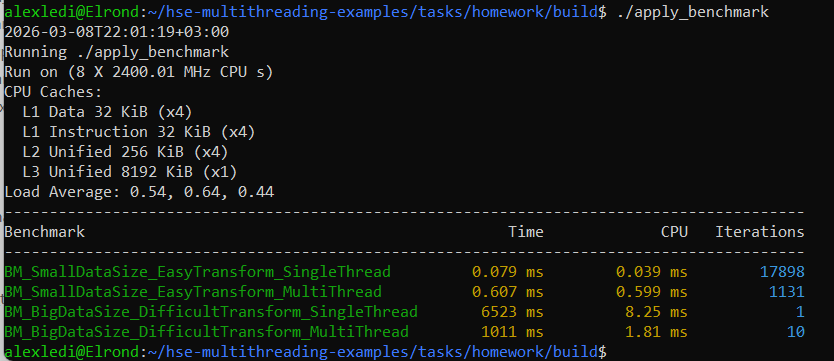
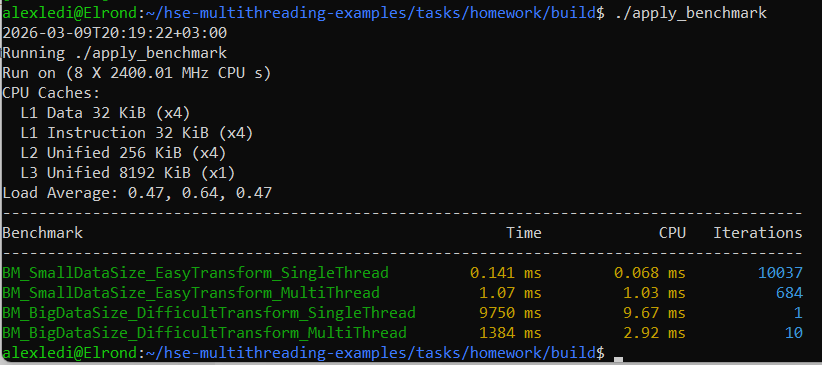
Correct hw

Changed region(s): [[0.0, 0.0, 1.0, 1.0], [0.7299, 0.7313, 0.8516, 0.9446], [0.9124, 0.7313, 0.9732, 0.9446]]

diff --git a/tasks/homework/apply.hpp b/tasks/homework/apply.hpp
@@ -21,10 +21,14 @@ void ApplyFunction(std::vector<T>& data,
         realThreadCount = threadCount;
     }
     std::vector<std::jthread> jthreadPull;
-    jthreadPull.reserve(realThreadCount); 
+    jthreadPull.reserve(realThreadCount);
+    const auto elementCount = data.size() / realThreadCount;
     for (int i = 0; i < realThreadCount; ++i) {
         jthreadPull.emplace_back([&, i]() {
-            for (int j = i; j < data.size(); j += realThreadCount) {
+            const auto begin = i * elementCount;
+            const auto end = (i == realThreadCount - 1) ? data.size()
+                                                        : (i + 1) * elementCount;
+            for (int j = begin; j < end; ++j) {
                 transform(data[j]);
             }
         });

diff --git a/tasks/homework/test.cpp b/tasks/homework/test.cpp
@@ -37,6 +37,16 @@ TEST(ApplyFunction, SingleThread) {
     EXPECT_EQ(data, expected_data);
 }
 
+TEST(ApplyFunction, MultiThread) {
+    std::vector<int> data(10);
+    std::iota(data.begin(), data.end(), 0);
+    ApplyFunction<int>(data, [](int& value) {
+        value += 7;
+    }, 3);
+    const std::vector<int> expected_data{7, 8, 9, 10, 11, 12, 13, 14, 15, 16};
+    EXPECT_EQ(data, expected_data);
+}
+
 TEST(ApplyFunction, DataSizeLessThanThreadCount) {
     std::vector<int> data{2, 4, 6, 8, 10};
     ApplyFunction<int>(data, [](int& value) {
